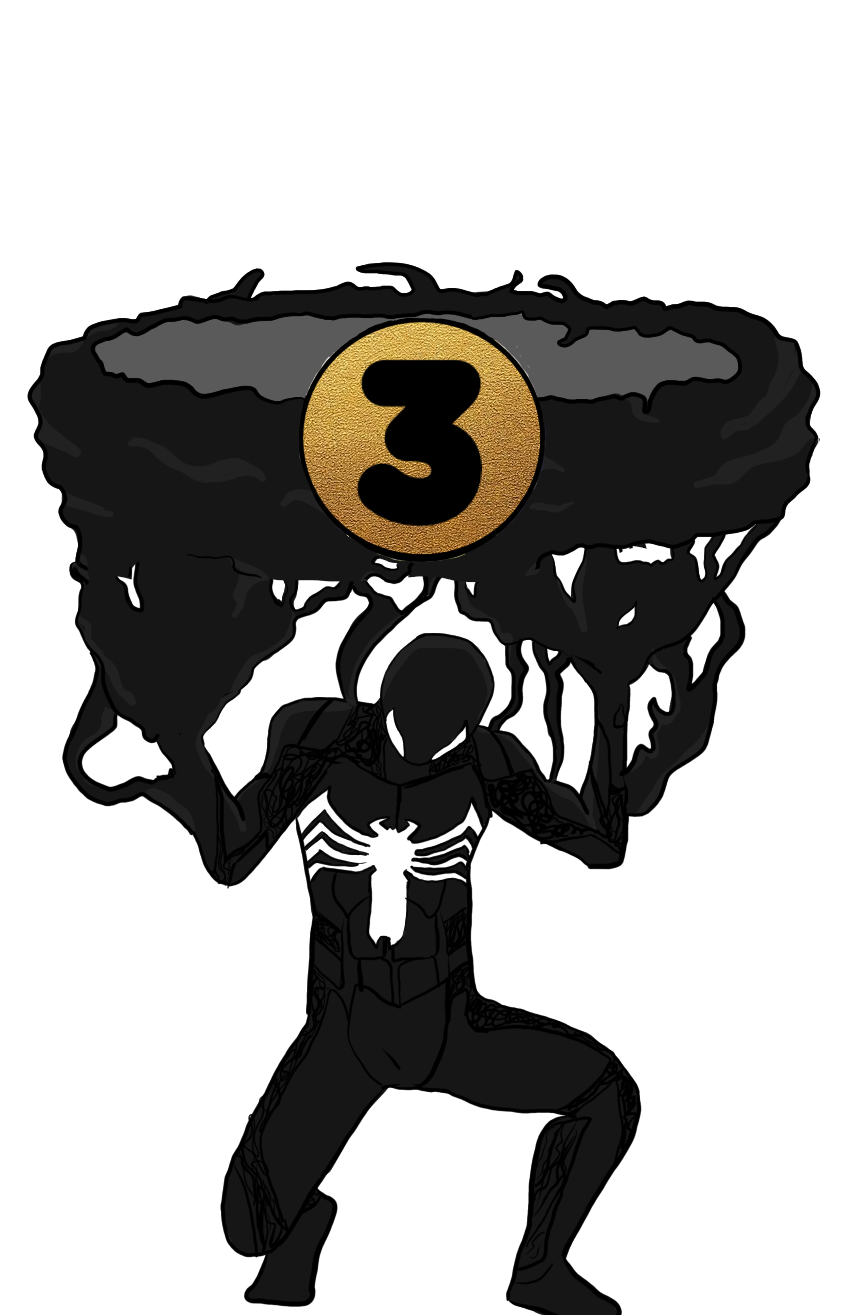
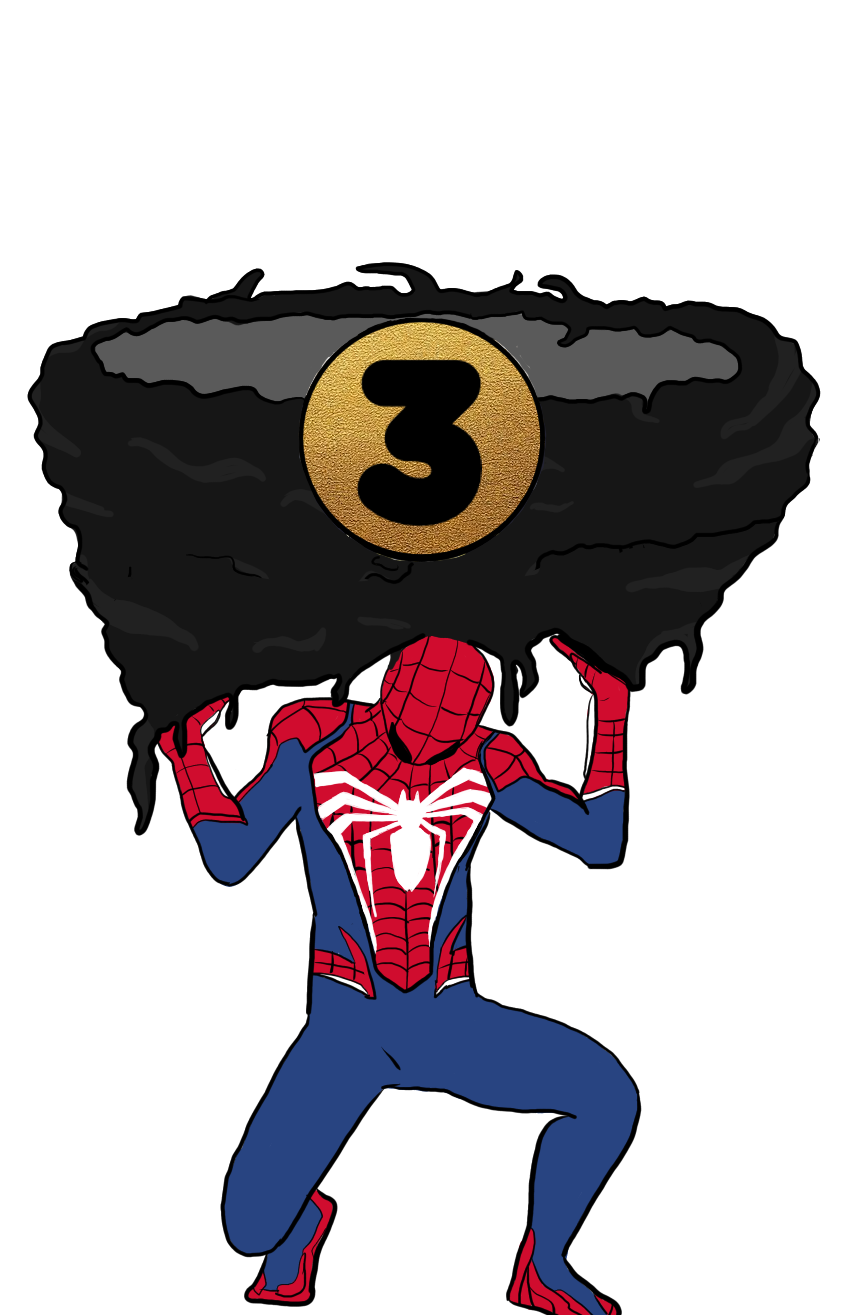
fixed shiny yachja podium

Changed region(s): [[0.061, 0.4053, 0.9155, 1.0], [0.1526, 0.4365, 0.1831, 0.4677]]

diff --git a/helpers/PodiumBuilder.py b/helpers/PodiumBuilder.py
@@ -20,84 +20,60 @@ class PodiumBuilder:
             },
             "273503117348306944": {
                 "podiumLocation": "arno/ArnoPodium",
-                "badgePasteCoords": [
-                    (255, 1050), (255, 1130), (255, 1320)
-                ],  
+                "badgePasteCoords": [(255, 1050), (255, 1130), (255, 1320)],  
             },
             "222415043550117888": {
                 "podiumLocation": "ba/BaPodium",
-                "badgePasteCoords": [
-                    (255, 1050), (255, 1130), (255, 1320)
-                ],  
+                "badgePasteCoords": [(255, 1050), (255, 1130), (255, 1320)],  
             },
             "559715606014984195": {
                 "podiumLocation": "gible/GiblePodium",
                 "shinyPodiumLocation": "gible/ShinyGiblePodium",
-                "badgePasteCoords": [
-                    (255, 1050), (255, 1130), (255, 1320)
-                ],  
+                "shinyPodiums": [1, 2, 3],
+                "badgePasteCoords": [(255, 1050), (255, 1130), (255, 1320)],  
             },
             "494508091283603462": {
                 "podiumLocation": "jacko/JackoPodium",
-                "badgePasteCoords": [
-                    (255, 1050), (255, 1130), (255, 1320)
-                ],  
+                "badgePasteCoords": [(255, 1050), (255, 1130), (255, 1320)],  
             },
             "339820557086228490": {
                 "podiumLocation": "jakob/JakobPodium",
-                "badgePasteCoords": [
-                    (255, 1050), (255, 1130), (255, 1320)
-                ],  
+                "badgePasteCoords": [(255, 1050), (255, 1130), (255, 1320)],  
             },
             "527916521754722315": {
                 "podiumLocation": "leander/LeanderPodium",
-                "badgePasteCoords": [
-                    (255, 1050), (255, 1130), (255, 1320)
-                ],  
+                "badgePasteCoords": [(255, 1050), (255, 1130), (255, 1320)],  
             },
             "512256261459542019": {
                 "podiumLocation": "meng/MengPodium",
-                "badgePasteCoords": [
-                    (255, 1050), (255, 1130), (255, 1320)
-                ],  
+                "badgePasteCoords": [(255, 1050), (255, 1130), (255, 1320)],  
             },
             "464400950702899211": {
                 "podiumLocation": "pingy/PingyPodium",
-                "badgePasteCoords": [
-                    (255, 1050), (255, 1130), (255, 1320)
-                ],  
+                "badgePasteCoords": [(255, 1050), (255, 1130), (255, 1320)],  
             },
             "462932133170774036": {
                 "podiumLocation": "silas/SolosPodium",
                 #"poseLocation": "default/DefaultPose", # TODO
                 #"amountOfCustomPoses": 5, #TODO
-                "badgePasteCoords": [
-                    (415, 1050), (255, 1130), (255, 1320) # TODO 2 & 3
-                ],  
-                "poseOffset": [
-                    (0, 100), (0, 200), (0, 340)
-                ]
+                "badgePasteCoords": [(415, 1050), (255, 1130), (255, 1320)],   # TODO 2 & 3
+                "poseOffset": [(0, 100), (0, 200), (0, 340)]
             },
             "453136562885099531": {
                 "podiumLocation": "wouter/WouterPodium",
-                "badgePasteCoords": [
-                    (255, 1050), (255, 1130), (255, 1320)
-                ],  
+                "badgePasteCoords": [(255, 1050), (255, 1130), (255, 1320)],  
             },
             "733845345225670686": {
                 "podiumLocation": "yachja/YachjaPodium",
-                "badgePasteCoords": [
-                    (1070, 1340), (320, 1130), (300, 1310)
-                ],
-                "poseOffset": [
-                    (0, 400), (0, 200), (0, 340)
-                ]
+                "shinyPodiumLocation": "yachja/ShinyYachjaPodium",
+                "shinyPodiums": [3],
+
+                "badgePasteCoords": [(1070, 1340), (320, 1130), (300, 1310)],
+                "poseOffset": [(0, 400), (0, 200), (0, 340)]
             },  
             "756527409876041859": {
                 "podiumLocation": "zeb/ZebPodium",
-                "badgePasteCoords": [
-                    (255, 1050), (255, 1130), (255, 1320)
-                ],  
+                "badgePasteCoords": [(255, 1050), (255, 1130), (255, 1320)],  
             },
         }
 
@@ -187,7 +163,7 @@ class PodiumBuilder:
         location = defined_art.get("podiumLocation", "default/DefaultPodium")
 
         # check if podium can be shiny and if it should be
-        if "shinyPodiumLocation" in defined_art and alwaysShiny:
+        if "shinyPodiumLocation" in defined_art and place in defined_art.get("shinyPodiums", []) and alwaysShiny:
             location = defined_art.get("shinyPodiumLocation")
         
         # load the selected image
@@ -269,9 +245,11 @@ class PodiumBuilder:
         
         # dm user if podium is shiny
         if alwaysShiny:
-            for user_id in user_ids:
-                if "shinyPodiumLocation" in self.definedArt.get(str(user_id), {}):
-                
+            for i, user_id in enumerate(user_ids):
+                defined_art = self.definedArt.get(str(user_id), {})
+                if "shinyPodiumLocation" in defined_art and order[i] in defined_art.get("shinyPodiums", []):
+                    
+                    # TODO uncomment
                     # await db_manager.increment_or_add_nword(int(user_id), 500)
 
                     embed = discord.Embed(

diff --git a/bot.py b/bot.py
@@ -300,7 +300,7 @@ async def on_raw_reaction_add(payload):
     field = '\u200b'
     for i in range(len(vals)):
         perc = 0 if total == 0 else vals[i]/total
-        field += f'**{emojis[i]}: {vals[i]} votes - {perc:.0%}**\n' # TODO
+        field += f'**{emojis[i]}: {vals[i]} votes - {perc:.0%}**\n'
     
     e.remove_field(index=1)
     e.add_field(
